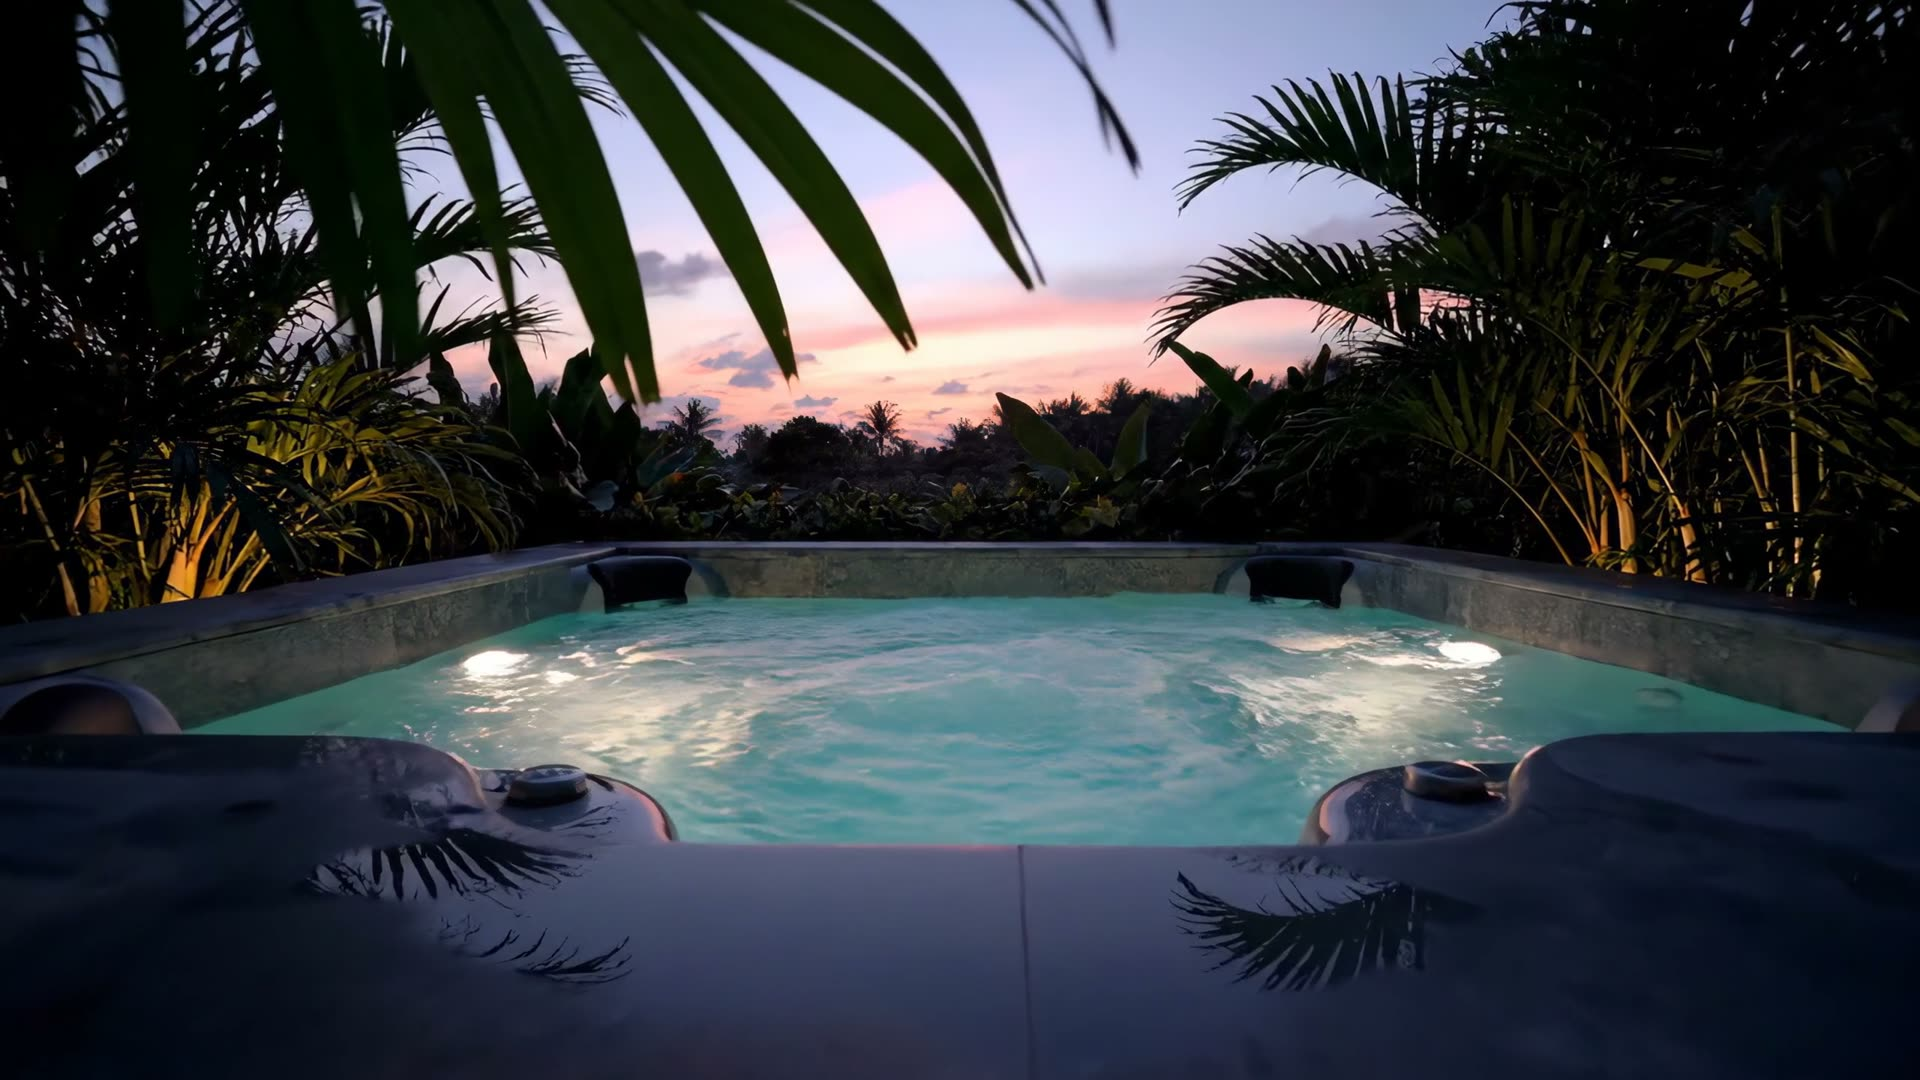
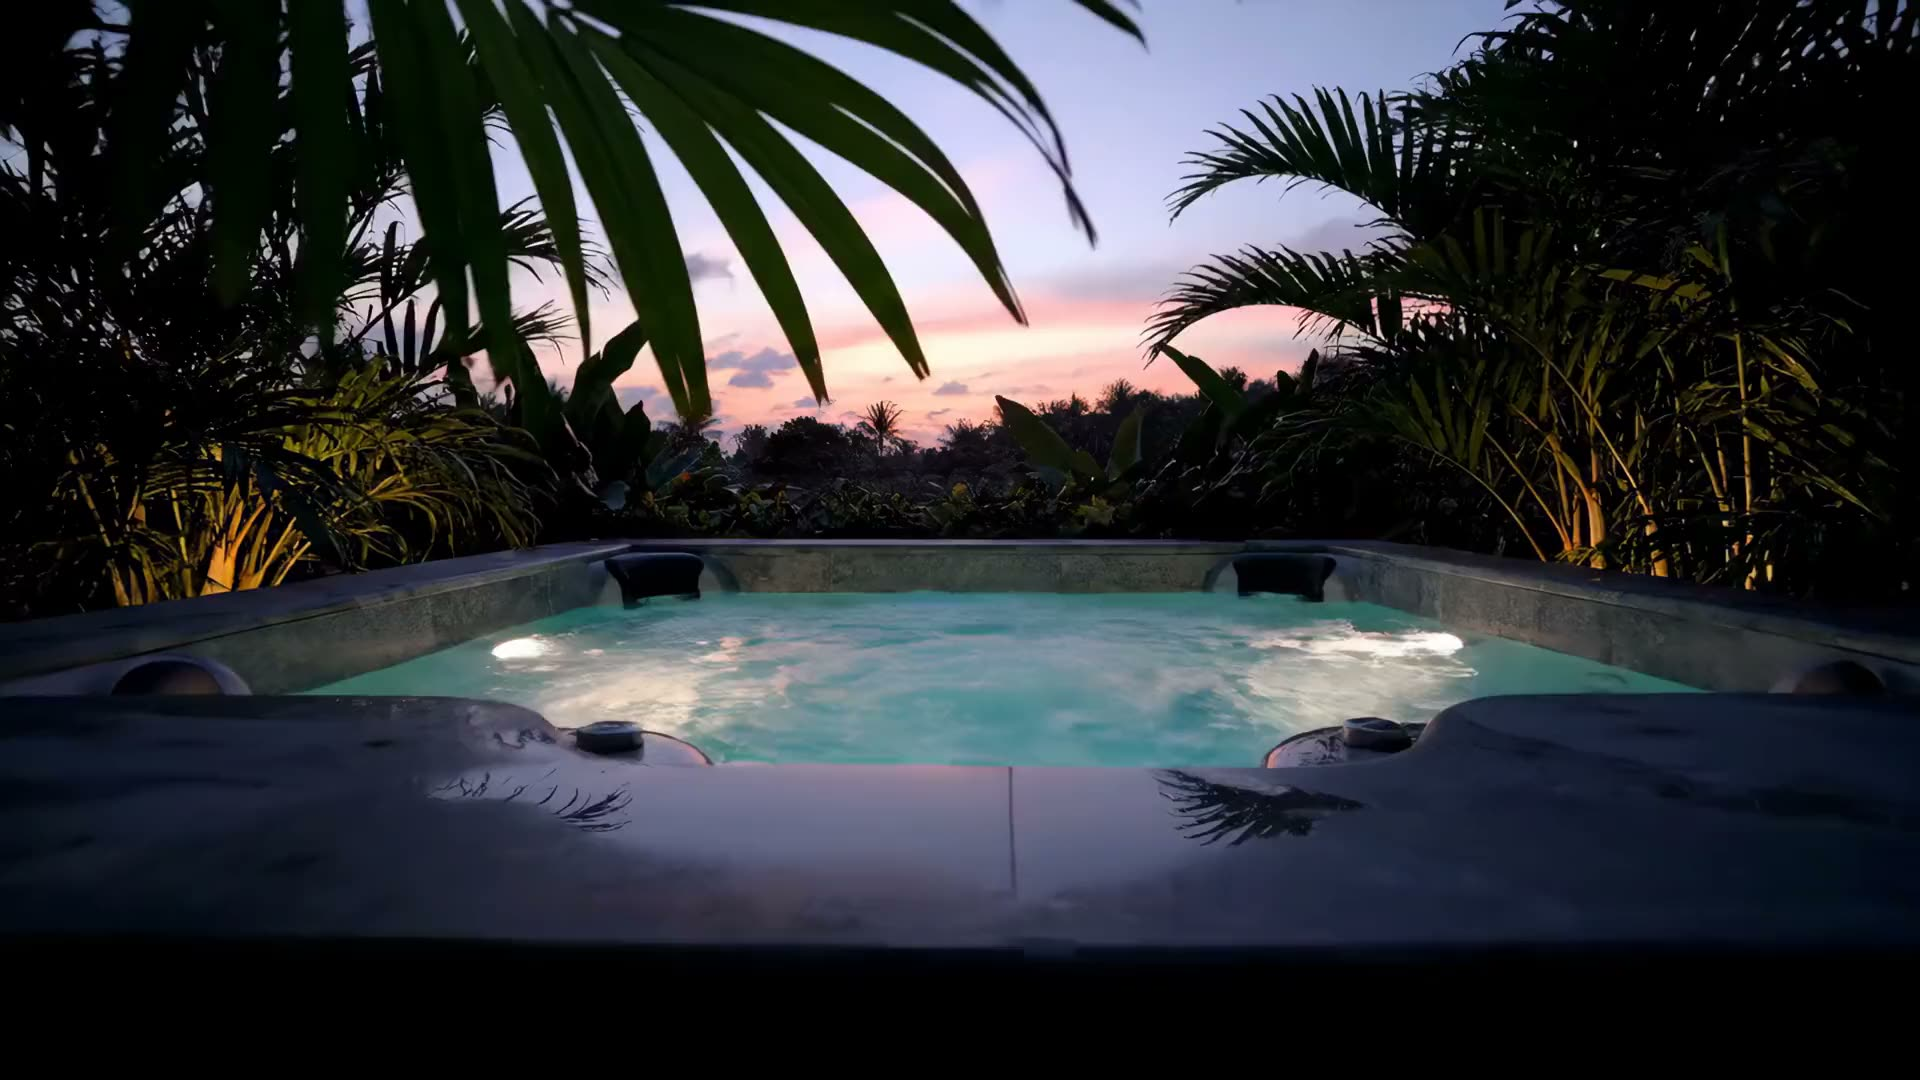
feat: scroll-scrubbed hero video (GTA VI-style playback)

diff --git a/components/hero/useHeroScroll.ts b/components/hero/useHeroScroll.ts
@@ -10,6 +10,7 @@ interface HeroScrollRefs {
   sectionRef: RefObject<HTMLElement | null>;
   zoomGroupRef: RefObject<SVGGElement | null>;
   taglineRef: RefObject<HTMLElement | null>;
+  videoRef: RefObject<HTMLVideoElement | null>;
 }
 
 interface ViewportSize {
@@ -43,18 +44,28 @@ function useViewportSize(): ViewportSize {
 
 /**
  * Drives the GTA-style scroll-mask hero: pins the section while the mask's
- * zoom anchor scales up to fill the viewport (revealing the full video) and
- * the tagline fades out early. Skipped entirely when reducedMotion is true.
+ * zoom anchor scales up to fill the viewport (revealing the full video),
+ * the footage is scrubbed (video.currentTime) in lockstep with the same
+ * timeline, and the tagline fades out early. The video never plays on its
+ * own — scroll position is the only thing that advances it.
+ *
+ * `enabled` is false until hydration AND whenever the user prefers reduced
+ * motion; the <video> only exists in the DOM once it flips true.
  */
-export function useHeroScroll({ sectionRef, zoomGroupRef, taglineRef }: HeroScrollRefs, reducedMotion: boolean) {
+export function useHeroScroll(
+  { sectionRef, zoomGroupRef, taglineRef, videoRef }: HeroScrollRefs,
+  enabled: boolean,
+) {
   const { width, height } = useViewportSize();
 
   useEffect(() => {
-    if (reducedMotion) return;
-    if (!sectionRef.current || !zoomGroupRef.current || !taglineRef.current) return;
+    if (!enabled) return;
+    const video = videoRef.current;
+    if (!sectionRef.current || !zoomGroupRef.current || !taglineRef.current || !video) return;
 
+    let tl: gsap.core.Timeline;
     const ctx = gsap.context(() => {
-      const tl = gsap.timeline({
+      tl = gsap.timeline({
         scrollTrigger: {
           trigger: sectionRef.current,
           start: "top top",
@@ -72,11 +83,26 @@ export function useHeroScroll({ sectionRef, zoomGroupRef, taglineRef }: HeroScro
       tl.to(taglineRef.current, { opacity: 0, ease: "none", duration: 0.25 }, 0);
     }, sectionRef);
 
+    // The currentTime tween needs the real duration, so it can only be added
+    // once metadata is in. ctx.add registers it for cleanup via ctx.revert.
+    const addVideoScrub = () => {
+      ctx.add(() => {
+        tl.to(video, { currentTime: video.duration, ease: "none", duration: 1 }, 0);
+      });
+    };
+
+    if (video.readyState >= HTMLMediaElement.HAVE_METADATA) {
+      addVideoScrub();
+    } else {
+      video.addEventListener("loadedmetadata", addVideoScrub, { once: true });
+    }
+
     return () => {
+      video.removeEventListener("loadedmetadata", addVideoScrub);
       ctx.revert();
       ScrollTrigger.refresh();
     };
-  }, [reducedMotion, width, height, sectionRef, zoomGroupRef, taglineRef]);
+  }, [enabled, width, height, sectionRef, zoomGroupRef, taglineRef, videoRef]);
 
   return { width, height };
 }

diff --git a/components/hero/Hero.tsx b/components/hero/Hero.tsx
@@ -1,10 +1,25 @@
 "use client";
 
-import { useRef } from "react";
+import { useRef, useSyncExternalStore } from "react";
 import { siteConfig } from "@/data/site";
 import { useReducedMotion } from "@/lib/useReducedMotion";
 import { HeroMask } from "./HeroMask";
 import { useHeroScroll } from "./useHeroScroll";
+
+const noopSubscribe = () => () => {};
+
+/**
+ * False during SSR/hydration, true after. The server can't know the client's
+ * motion preference, so the <video> must stay out of the server HTML — else
+ * the browser starts downloading it even for reduced-motion users.
+ */
+function useHydrated(): boolean {
+  return useSyncExternalStore(
+    noopSubscribe,
+    () => true,
+    () => false,
+  );
+}
 
 /**
  * GTA VI–style scroll hero: "PINNACLE TUBS" is cut out of a mask over the
@@ -16,9 +31,14 @@ export function Hero() {
   const sectionRef = useRef<HTMLElement>(null);
   const zoomGroupRef = useRef<SVGGElement>(null);
   const taglineRef = useRef<HTMLSpanElement>(null);
+  const videoRef = useRef<HTMLVideoElement>(null);
   const reducedMotion = useReducedMotion();
+  const animated = useHydrated() && !reducedMotion;
 
-  const { width, height } = useHeroScroll({ sectionRef, zoomGroupRef, taglineRef }, reducedMotion);
+  const { width, height } = useHeroScroll(
+    { sectionRef, zoomGroupRef, taglineRef, videoRef },
+    animated,
+  );
 
   return (
     <section ref={sectionRef} className="relative h-screen w-full overflow-hidden bg-background">
@@ -28,8 +48,9 @@ export function Hero() {
         title={siteConfig.hero.title}
         videoSrc={siteConfig.hero.videoSrc}
         poster={siteConfig.hero.poster}
-        animated={!reducedMotion}
+        animated={animated}
         zoomGroupRef={zoomGroupRef}
+        videoRef={videoRef}
       />
       <p className="hero-tagline pointer-events-none absolute inset-x-0 bottom-16 px-6 text-center sm:bottom-24">
         <span

diff --git a/components/hero/HeroMask.tsx b/components/hero/HeroMask.tsx
@@ -13,6 +13,8 @@ interface HeroMaskProps {
   animated: boolean;
   /** The scaled group inside the mask — animated by useHeroScroll. */
   zoomGroupRef: RefObject<SVGGElement | null>;
+  /** The video element — scrubbed (currentTime) by useHeroScroll. */
+  videoRef: RefObject<HTMLVideoElement | null>;
 }
 
 /**
@@ -29,6 +31,7 @@ export function HeroMask({
   poster,
   animated,
   zoomGroupRef,
+  videoRef,
 }: HeroMaskProps) {
   const fontSize = Math.min(Math.max(width / 8.5, 32), 320);
   const barWidth = width * 0.14;
@@ -46,14 +49,13 @@ export function HeroMask({
       >
         {animated ? (
           <video
+            ref={videoRef}
             className="h-full w-full object-cover"
             src={videoSrc}
             poster={poster}
             muted
             playsInline
-            autoPlay
-            loop
-            preload="metadata"
+            preload="auto"
             aria-hidden="true"
           />
         ) : (

diff --git a/data/site.ts b/data/site.ts
@@ -19,7 +19,7 @@ export const siteConfig = {
     instagram: "https://instagram.com/pinnacle.tubs",
   },
   hero: {
-    videoSrc: "/assets/hot-tub-at-dusk-surrounded-by-tropical-plants.mp4",
+    videoSrc: "/assets/hero-scrub.mp4",
     poster: "/assets/hero-poster.jpg",
     title: ["PINNACLE", "TUBS"],
   },